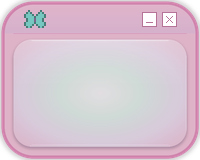
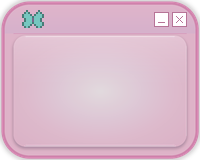
Pixel Daydream: constant title-bar size; more pink received; richer sent gradient
- Shrank the 9-slice cap to 24px (square) and packed the title bar, corners and
  buttons inside it, so even a 1-line bubble stays taller than 2*cap and the cap
  never clamps. Result: the top bar (butterfly + minimize/close) is exactly the
  same size on every bubble, regardless of message length or bubble size.
- Moved the buttons in / butterfly slightly to fit the 24px cap; reduced inner
  radius + panel gap so both corners stay inside the cap (clean rounded box).
- Received bubble is now pink-dominant (more pink in the radial).
- Sent bubble gets a richer hologram radial (white -> mint -> lavender ->
  periwinkle -> blue frame) -- more visible gradient, still soft and seamless.

Claude-Session: https://claude.ai/code/session_0131KihTAuQeJCaUMiKQDazA

diff --git a/themes/pixel-daydream/KakaoTalkTheme.css b/themes/pixel-daydream/KakaoTalkTheme.css
@@ -112,10 +112,10 @@ InputBarStyle-Chat
 
 MessageCellStyle-Send
 {
-  -ios-background-image: 'chatroomBubbleSend01.png' 30px 30px;
-  -ios-selected-background-image: 'chatroomBubbleSend01Selected.png' 30px 30px;
-  -ios-group-background-image: 'chatroomBubbleSend02.png' 30px 30px;
-  -ios-group-selected-background-image: 'chatroomBubbleSend02Selected.png' 30px 30px;
+  -ios-background-image: 'chatroomBubbleSend01.png' 24px 24px;
+  -ios-selected-background-image: 'chatroomBubbleSend01Selected.png' 24px 24px;
+  -ios-group-background-image: 'chatroomBubbleSend02.png' 24px 24px;
+  -ios-group-selected-background-image: 'chatroomBubbleSend02Selected.png' 24px 24px;
   -ios-title-edgeinsets: 23px 16px 11px 16px;
   -ios-group-title-edgeinsets: 23px 16px 11px 16px;
   -ios-text-color: #45456E;
@@ -125,10 +125,10 @@ MessageCellStyle-Send
 
 MessageCellStyle-Receive
 {
-  -ios-background-image: 'chatroomBubbleReceive01.png' 30px 30px;
-  -ios-selected-background-image: 'chatroomBubbleReceive01Selected.png' 30px 30px;
-  -ios-group-background-image: 'chatroomBubbleReceive02.png' 30px 30px;
-  -ios-group-selected-background-image: 'chatroomBubbleReceive02Selected.png' 30px 30px;
+  -ios-background-image: 'chatroomBubbleReceive01.png' 24px 24px;
+  -ios-selected-background-image: 'chatroomBubbleReceive01Selected.png' 24px 24px;
+  -ios-group-background-image: 'chatroomBubbleReceive02.png' 24px 24px;
+  -ios-group-selected-background-image: 'chatroomBubbleReceive02Selected.png' 24px 24px;
   -ios-title-edgeinsets: 23px 16px 11px 16px;
   -ios-group-title-edgeinsets: 23px 16px 11px 16px;
   -ios-text-color: #6B4A60;

diff --git a/themes/pixel-daydream/scripts/generate_images.py b/themes/pixel-daydream/scripts/generate_images.py
@@ -247,7 +247,10 @@ def pal_mono(c):
 # ===========================================================================
 DS = 12                       # draw units per 1x point (downscaled -> crisp)
 BUB_W, BUB_H = 100, 80        # 1x points
-CAP = 30                      # 9-slice cap (matches the CSS)
+CAP = 24                      # 9-slice cap (matches the CSS). Small enough that
+                              # even a 1-line bubble stays taller than 2*CAP, so
+                              # the cap never clamps and the TITLE BAR is exactly
+                              # the same size on every bubble regardless of text.
 
 
 def _grad_v(w, h, top, bot):
@@ -320,17 +323,19 @@ class Bub:
 
 # panel_stops are now a RADIAL ramp: centre -> edge. The edge equals the window
 # frame colour so the panel blends seamlessly into the frame.
-# received = pink window: white centre -> faint mint -> lilac -> pink frame edge
+# received = pink window: soft-pink centre -> pink -> deeper pink -> pink frame
+# (pink-dominant, with just a whisper of mint near the centre)
 RECV = Bub(border=(232, 146, 192), frame=(247, 199, 223),
            title_top=(250, 202, 225), title_bot=(238, 197, 227),
-           panel_stops=[(255, 252, 255), (233, 247, 241), (243, 229, 247), (247, 200, 223)],
+           panel_stops=[(255, 247, 251), (250, 226, 240), (249, 208, 228), (247, 199, 223)],
            div=(236, 158, 200), glow=(252, 206, 232, 150), wing=(132, 222, 214))
 
-# sent = periwinkle window: pale centre -> faint mint -> periwinkle -> blue edge
-# (blue blended through so it reads soft, not vibrant, and melts into the frame)
+# sent = periwinkle window: richer hologram -- white centre -> mint -> lavender
+# -> periwinkle -> blue frame edge (more colour, still soft and frame-seamless)
 SENT = Bub(border=(148, 166, 224), frame=(199, 213, 240),
            title_top=(201, 219, 245), title_bot=(204, 224, 234),
-           panel_stops=[(233, 233, 250), (215, 234, 238), (209, 217, 245), (199, 213, 240)],
+           panel_stops=[(240, 244, 250), (205, 238, 230), (214, 210, 246),
+                        (203, 216, 244), (199, 213, 240)],
            div=(158, 178, 226), glow=(200, 216, 246, 150), wing=(140, 224, 204))
 
 PANEL_ALPHA = 242             # frosted: lets a touch of background through
@@ -340,11 +345,11 @@ def _bubble_master(b):
     """Render the embossed, glossy hologram window at DS resolution."""
     W, H = BUB_W * DS, BUB_H * DS
     lw = max(2, int(1.6 * DS))
-    r_out = 16 * DS
+    r_out = 14 * DS
     title_h = 16 * DS
     margin = 6 * DS                  # frame thickness around the inset panel
-    r_in = 9 * DS
-    panel_gap = 3 * DS               # gap between title bar and the panel
+    r_in = 6 * DS
+    panel_gap = 1 * DS               # gap between title bar and the panel
     # NB: title_h + panel_gap + r_in (+border) must stay <= CAP so BOTH the
     # top AND bottom panel corners sit fully inside the 9-slice cap -- otherwise
     # tall bubbles stretch the top corners only and the box flares wider at the
@@ -425,17 +430,17 @@ def _bubble_master(b):
 
 def _overlay_widgets(img, scale, b):
     """Crisp pixel butterfly + minimize/close buttons, inset from the edges so
-    they sit safely inside the 30px corner cap and never get cropped."""
+    they sit safely inside the 24px corner cap and never get cropped."""
     d = ImageDraw.Draw(img)
     # pixel butterfly, inset from the LEFT, vertically centred in the title bar
     draw_pixels(d, BUTTERFLY, pal_butterfly(b.wing, darken(b.wing, 0.62)),
-                12 * scale, 5 * scale, scale)
+                11 * scale, 5 * scale, scale)
     # minimize + close buttons, inset from the RIGHT, centred in the title bar
     edge = darken(b.border, 0.88)
     bfill = (255, 253, 255, 240)
     size = 7
     for i, kind in enumerate(("min", "close")):
-        x = (71 + i * 10) * scale
+        x = (77 + i * 9) * scale
         y = 6 * scale
         x1, y1 = x + size * scale, y + size * scale
         d.rectangle([x, y, x1, y1], fill=bfill, outline=edge, width=max(1, scale // 2))

diff --git a/themes/pixel-daydream/scripts/preview_pages.py b/themes/pixel-daydream/scripts/preview_pages.py
@@ -14,7 +14,7 @@ HDR = (247, 217, 238)
 TEXT = (106, 90, 122)
 SUB = (156, 138, 182)
 ACCENT = (240, 106, 160)
-CAP3 = 22 * 3
+CAP3 = 24 * 3
 
 
 def font(sz, bold=False):
